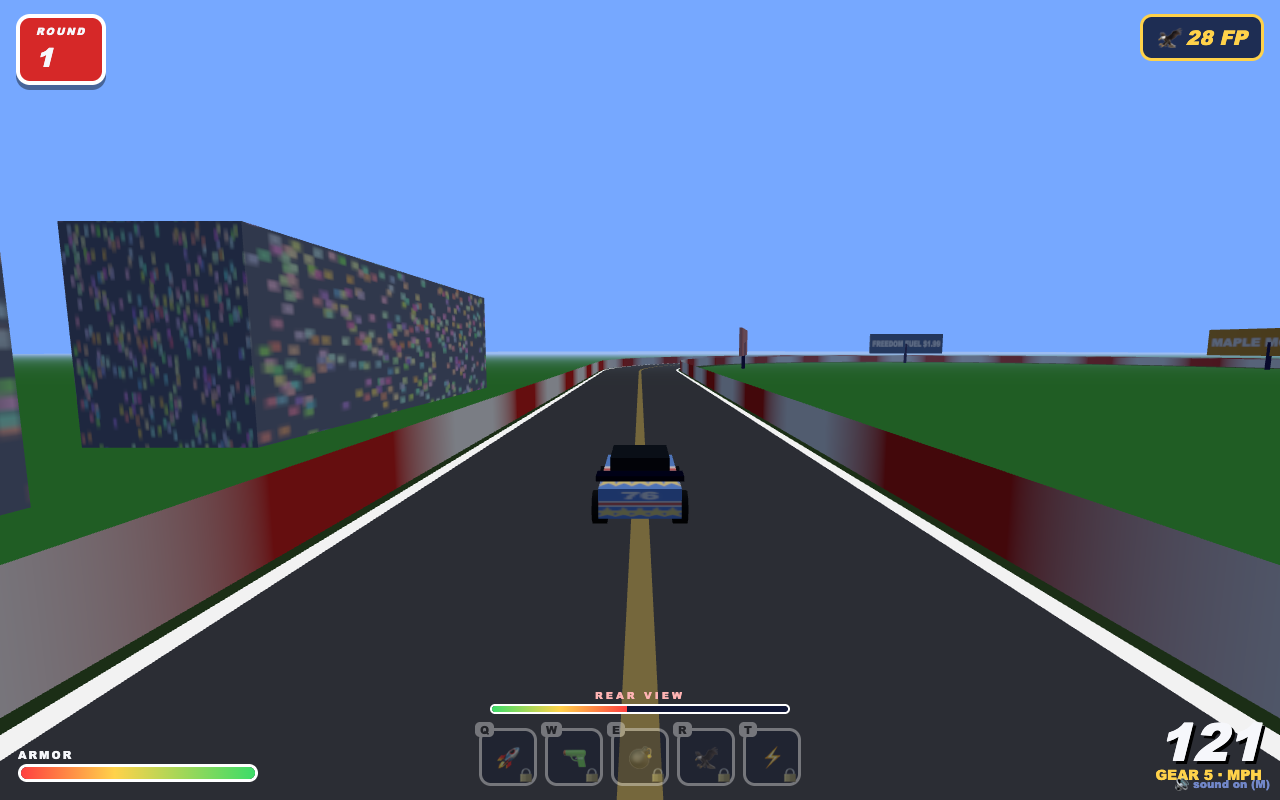
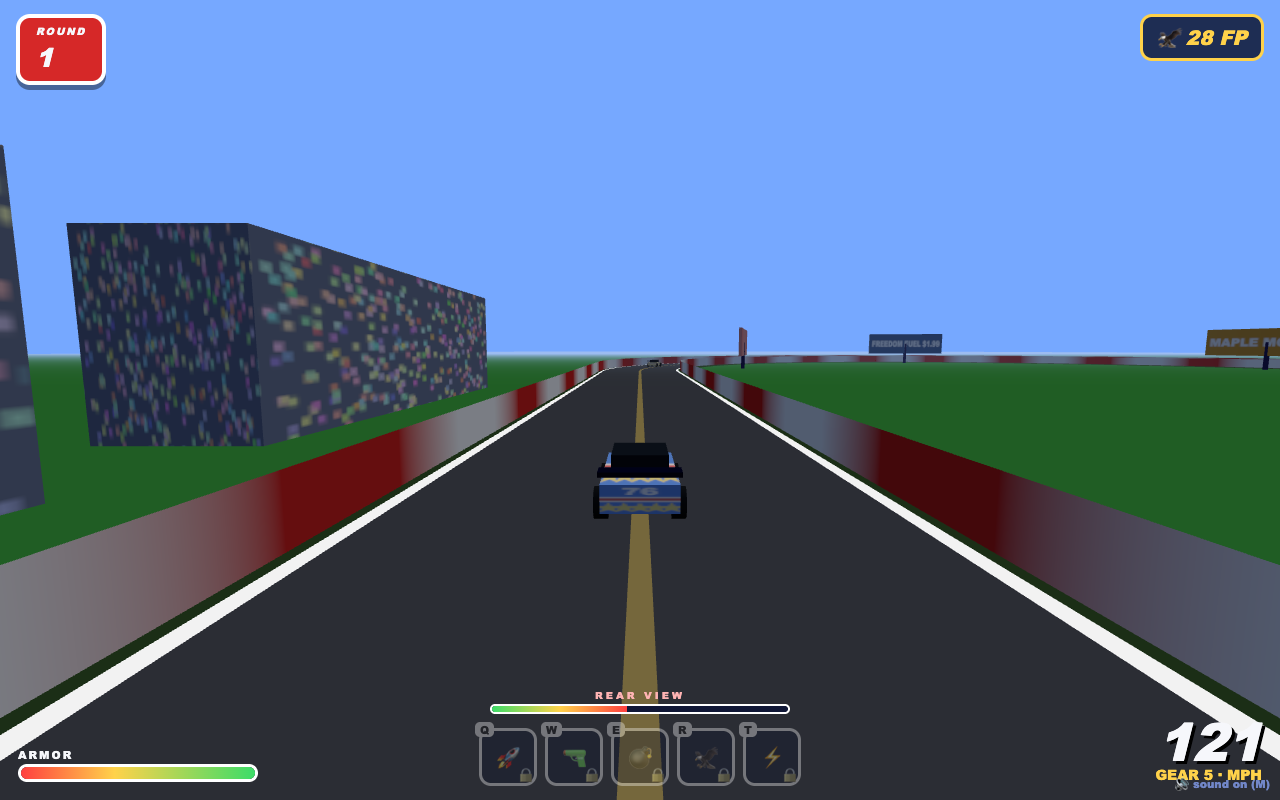
feat: itch.io page kit + smoke test URL targets
itch/PAGE.md maps the itch theme editor to the game palette (BG #060f2e,
BG2 #0b1c4d, text #f6f7fb, link gold #ffd24a, Lato Large), with generated
on-palette cover/banner/background/embed images (bun itch/generate.ts).
Smoke test now accepts https targets; live Pages build verified green.

Changed region(s): [[0.0, 0.1875, 0.4062, 0.6562], [0.4688, 0.5938, 0.5312, 0.6562], [0.9375, 0.4062, 1.0, 0.4688]]

diff --git a/itch/src/banner.html b/itch/src/banner.html
@@ -1,0 +1,25 @@
+<!doctype html>
+<!-- itch.io page banner, shot at 960×320 by itch/generate.ts -->
+<html><head><meta charset="utf-8"><style>
+:root{--navy:#0b1c4d;--navy2:#060f2e;--red:#d62828;--gold:#ffd24a;--white:#f6f7fb}
+*{margin:0;padding:0;box-sizing:border-box}
+body{width:960px;height:320px;overflow:hidden;background:linear-gradient(180deg,var(--navy2) 0%,var(--navy) 100%);font-family:"Arial Black","Avenir Next Condensed",system-ui,sans-serif;color:var(--white);position:relative}
+.stars{position:absolute;inset:0;opacity:.5;background-image:radial-gradient(#fff 1px,transparent 1.6px),radial-gradient(#fff .8px,transparent 1.4px);background-size:110px 90px,70px 120px;background-position:0 0,35px 60px}
+.wrap{position:absolute;inset:0;display:flex;align-items:center;justify-content:center;gap:34px;padding-bottom:26px}
+.eagle{font-size:96px;filter:drop-shadow(0 6px 0 rgba(0,0,0,.4))}
+.t .l1{font-size:62px;color:var(--gold);text-shadow:3px 3px 0 var(--red),6px 6px 0 #7a1010;font-style:italic;line-height:1}
+.t .l2{font-size:40px;color:var(--white);text-shadow:3px 3px 0 var(--red),5px 5px 0 #7a1010;font-style:italic}
+.t .tag{font-size:12px;letter-spacing:4px;color:var(--gold);text-transform:uppercase;margin-top:8px;white-space:nowrap}
+.check{position:absolute;bottom:0;left:0;right:0;height:26px;background:repeating-conic-gradient(#111 0% 25%,#eee 0% 50%);background-size:26px 26px;border-top:4px solid var(--red)}
+</style></head><body>
+<div class="stars"></div>
+<div class="wrap">
+  <div class="eagle">🦅</div>
+  <div class="t">
+    <div class="l1">TURBO NASCAR <span class="l2">INFINITE</span></div>
+    <div class="tag">OUTRUN THE PACK · STACK UPGRADES FOREVER · ROUND ∞</div>
+  </div>
+  <div class="eagle" style="transform:scaleX(-1)">🦅</div>
+</div>
+<div class="check"></div>
+</body></html>

diff --git a/itch/src/cover.html b/itch/src/cover.html
@@ -1,0 +1,25 @@
+<!doctype html>
+<!-- itch.io cover image, shot at 630×500 by itch/generate.ts -->
+<html><head><meta charset="utf-8"><style>
+:root{--navy:#0b1c4d;--navy2:#060f2e;--red:#d62828;--gold:#ffd24a;--white:#f6f7fb}
+*{margin:0;padding:0;box-sizing:border-box}
+body{width:630px;height:500px;overflow:hidden;background:radial-gradient(ellipse at 50% 30%,var(--navy) 0%,var(--navy2) 70%);font-family:"Arial Black","Avenir Next Condensed",system-ui,sans-serif;color:var(--white);position:relative}
+.stars{position:absolute;inset:0;opacity:.5;background-image:radial-gradient(#fff 1px,transparent 1.6px),radial-gradient(#fff .8px,transparent 1.4px);background-size:110px 90px,70px 120px;background-position:0 0,35px 60px}
+.wrap{position:absolute;inset:0;display:flex;flex-direction:column;align-items:center;justify-content:center;gap:10px;text-align:center;padding-bottom:46px}
+.eagle{font-size:64px;filter:drop-shadow(0 6px 0 rgba(0,0,0,.4))}
+.l1{font-size:66px;color:var(--gold);text-shadow:3px 3px 0 var(--red),6px 6px 0 #7a1010;font-style:italic;line-height:.95}
+.l2{font-size:46px;color:var(--white);text-shadow:3px 3px 0 var(--red),6px 6px 0 #7a1010;font-style:italic}
+.tag{font-size:15px;letter-spacing:5px;color:var(--gold);text-transform:uppercase;margin-top:10px}
+.sub{font-size:12px;letter-spacing:2px;color:#aab8e8;text-transform:uppercase}
+.check{position:absolute;bottom:0;left:0;right:0;height:36px;background:repeating-conic-gradient(#111 0% 25%,#eee 0% 50%);background-size:36px 36px;border-top:4px solid var(--red)}
+</style></head><body>
+<div class="stars"></div>
+<div class="wrap">
+  <div class="eagle">🦅</div>
+  <div class="l1">TURBO NASCAR</div>
+  <div class="l2">INFINITE</div>
+  <div class="tag">DIE · UPGRADE · GO AGAIN</div>
+  <div class="sub">a 100% AI-generated roguelite</div>
+</div>
+<div class="check"></div>
+</body></html>

diff --git a/itch/generate.ts b/itch/generate.ts
@@ -1,0 +1,22 @@
+// Renders the itch.io page assets from itch/src/*.html at exact pixel sizes.
+// Run: bun itch/generate.ts
+import { chromium } from "playwright-core";
+
+const ASSETS = [
+  { src: "src/cover.html", out: "cover-630x500.png", w: 630, h: 500 },
+  { src: "src/banner.html", out: "banner-960x320.png", w: 960, h: 320 },
+  { src: "src/background.html", out: "background-1920x1080.png", w: 1920, h: 1080 },
+  { src: "src/embed-bg.html", out: "embed-bg-1280x800.png", w: 1280, h: 800 },
+];
+
+const browser = await chromium.launch({ channel: "chrome", headless: true });
+for (const a of ASSETS) {
+  const page = await browser.newPage({ viewport: { width: a.w, height: a.h } });
+  await page.goto("file://" + new URL(a.src, import.meta.url).pathname, { waitUntil: "load" });
+  await page.waitForTimeout(250);
+  await page.screenshot({ path: new URL(a.out, import.meta.url).pathname });
+  await page.close();
+  console.log(`✓ ${a.out} (${a.w}×${a.h})`);
+}
+await browser.close();
+console.log("itch assets written to itch/");

diff --git a/itch/src/background.html b/itch/src/background.html
@@ -1,0 +1,15 @@
+<!doctype html>
+<!-- itch.io page background, shot at 1920×1080 by itch/generate.ts. Kept dark and
+     quiet so the content column stays readable on top. -->
+<html><head><meta charset="utf-8"><style>
+:root{--navy:#0b1c4d;--navy2:#060f2e;--red:#d62828}
+*{margin:0;padding:0}
+body{width:1920px;height:1080px;overflow:hidden;background:radial-gradient(ellipse at 50% 0%,var(--navy) 0%,var(--navy2) 62%);position:relative}
+.stars{position:absolute;inset:0;opacity:.4;background-image:radial-gradient(#fff 1px,transparent 1.6px),radial-gradient(#fff .8px,transparent 1.4px);background-size:130px 110px,80px 140px;background-position:0 0,35px 60px}
+.glow{position:absolute;left:0;right:0;bottom:-220px;height:440px;background:radial-gradient(ellipse at 50% 100%,rgba(214,40,40,.35) 0%,transparent 65%)}
+.check{position:absolute;bottom:0;left:0;right:0;height:22px;background:repeating-conic-gradient(#0d0d0d 0% 25%,#2a2a2e 0% 50%);background-size:22px 22px;opacity:.8}
+</style></head><body>
+<div class="stars"></div>
+<div class="glow"></div>
+<div class="check"></div>
+</body></html>

diff --git a/itch/src/embed-bg.html b/itch/src/embed-bg.html
@@ -1,0 +1,12 @@
+<!doctype html>
+<!-- itch.io embed background (sits behind the game iframe), shot at 1280×800. -->
+<html><head><meta charset="utf-8"><style>
+:root{--navy:#0b1c4d;--navy2:#060f2e;--gold:#ffd24a}
+*{margin:0;padding:0}
+body{width:1280px;height:800px;overflow:hidden;background:radial-gradient(ellipse at 50% 45%,var(--navy) 0%,var(--navy2) 75%);position:relative;font-family:"Arial Black",system-ui,sans-serif}
+.stars{position:absolute;inset:0;opacity:.45;background-image:radial-gradient(#fff 1px,transparent 1.6px),radial-gradient(#fff .8px,transparent 1.4px);background-size:110px 90px,70px 120px;background-position:0 0,35px 60px}
+.hint{position:absolute;bottom:26px;left:0;right:0;text-align:center;color:var(--gold);font-size:13px;letter-spacing:4px;opacity:.55;font-style:italic}
+</style></head><body>
+<div class="stars"></div>
+<div class="hint">🦅 PRESS ENTER TO START YOUR ENGINE 🦅</div>
+</body></html>

diff --git a/tests/smoke.ts b/tests/smoke.ts
@@ -4,7 +4,7 @@
 import { chromium } from "playwright-core";
 
 const target = process.argv[2] ?? "../index.html";
-const fileUrl = "file://" + new URL(target, import.meta.url).pathname;
+const fileUrl = /^https?:\/\//.test(target) ? target : "file://" + new URL(target, import.meta.url).pathname;
 const errors: string[] = [];
 
 const browser = await chromium.launch({ channel: "chrome", headless: true });
@@ -65,4 +65,4 @@ if (errors.length || !boot.canvas || boot.simCore !== "object" || !inRun.hudVisi
   console.log("SMOKE: FAIL");
   process.exit(1);
 }
-console.log("SMOKE: PASS — game boots and drives from file:// with zero errors");
+console.log(`SMOKE: PASS — game boots and drives from ${fileUrl.split("/")[0]} with zero errors`);

diff --git a/itch/PAGE.md b/itch/PAGE.md
@@ -1,0 +1,66 @@
+# itch.io page kit — TURBO NASCAR INFINITE
+
+Everything needed to set up the itch.io page so it matches the game's look.
+Palette source: the `:root` CSS variables in `index.html`
+(`--navy:#0b1c4d --navy2:#060f2e --red:#d62828 --gold:#ffd24a --white:#f6f7fb --green:#3ddc68`).
+
+## Theme (Edit theme → Color / Text / Layout)
+
+| itch.io field | value | why |
+|---|---|---|
+| BG | `#060f2e` | game's night-sky base (`--navy2`) |
+| BG 2 | `#0b1c4d` | game's panel navy (`--navy`) |
+| Text | `#f6f7fb` | game's UI white (`--white`) |
+| Link | `#ffd24a` | game's gold accent (`--gold`) — replaces itch default `#fa5c5c` |
+| Button (if shown under More options) | `#d62828` | game's NASCAR red (`--red`) |
+| Font | **Lato** | itch's font list has no Arial Black; Lato is the cleanest neutral under our headings |
+| Size | **Large** | matches the game's chunky UI |
+| Screenshots | **Auto** | sidebar strip works with the dark theme |
+
+## Images (Edit theme → Images)
+
+Generated, exact-size, on-palette — regenerate any time with `bun itch/generate.ts`
+(templates in `itch/src/`):
+
+| itch.io slot | file |
+|---|---|
+| Cover image (game grid/social) | `cover-630x500.png` |
+| Banner (replaces page title) | `banner-960x320.png` |
+| Background | `background-1920x1080.png` |
+| Embed BG (behind the game frame) | `embed-bg-1280x800.png` — or just set the color `#060f2e` |
+
+Cover dimensions follow itch's recommended 630×500 (min 315×250):
+https://itch.io/docs/creators/appearance
+
+## Screenshots to upload
+
+From `shots/` (regenerate with `bun tests/smoke.ts` and `bun tests/bigtrack-check.ts`):
+`file-title.png`, `file-garage.png`, `file-gameplay.png`, `bigtrack-run.png`.
+
+## Upload & embed settings
+
+- **Kind of project:** HTML — *"This file will be played in the browser"*
+- **File:** `turbo-nascar-infinite.zip` (already contains `index.html` at the zip root, self-contained, no CDN)
+- **Embed size:** 1280 × 800 · enable **fullscreen button** · mobile friendly **off** (keyboard game)
+- **Pricing:** free / no payments
+- **Classification:** Game → Racing · also tag: roguelite, idle, incremental, arcade, 3d, singleplayer, browser
+- **Description — paste this:**
+
+---
+
+🦅 **TURBO NASCAR INFINITE** 🦅
+
+Outrun THE PACK behind you without overcooking the corners ahead of you.
+Die. Bank Freedom Points. Buy absurd upgrades. Go again, longer.
+
+- **Every upgrade stacks forever.** Weapons hit milestones on the way up — triple rockets at LV 5, STAR SPANGLED invulnerable turbo at LV 10, the FREEDOM TRAIN at LV 15.
+- **EMINENT DOMAIN:** buy the land around the track. The track physically grows; a lap still pays out at the same distance.
+- **Past round 10 the world ramps exponentially.** Every build dies. The next milestone is always one more restart away.
+- 425 achievements, 5 karts, turkeys, meteors, procedural chiptune, and a first death worth exactly 100 FP.
+
+⌨️ Arrows drive · Q W E R T fire the Constitution · M mute · ESC pause
+
+100% AI generated by Claude (Fable 5) in Claude Code — source: https://github.com/SaintPepsi/turbo-nascar-infinite
+Also playable at: https://saintpepsi.github.io/turbo-nascar-infinite/
+
+---